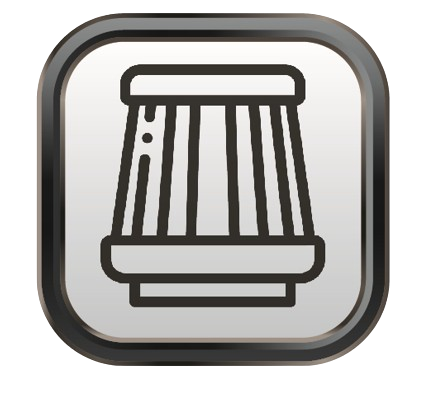
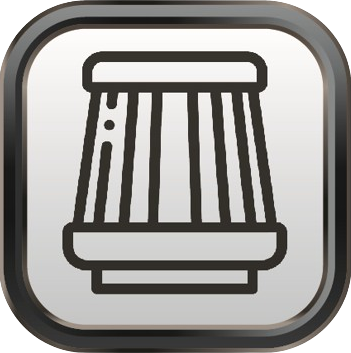
Add files via upload

diff --git a/index.html b/index.html
@@ -102,35 +102,35 @@
 								<p>Ανανεώστε το αυτοκίνητό σας με τα αξιόπιστα ανταλλακτικά μας, στηριζόμενοι στην εμπειρία μας για άψογη συντήρηση και αναβάθμιση.</p>
 							</header>
 							<ul class="features">
-								<li><div class = "w3-center"><img src="images\diskofrena.png" alt="" width="210" height="200"/>
+								<li><div class = "w3-center"><img src="images\diskofrena.png" alt="" width="200" height="200"/>
 									<h3>Δισκοφρενα</h3></div>
 									<p class="w3-center">Εξασφαλίστε ασφαλή επίδοση με τα δισκόφρενά μας - η επιλογή για αξιόπιστο φρενάρισμα και αντοχή σε κάθε κατάσταση.</p>
 								</li>
-								<li><div class = "w3-center"><img src="images\oil.png" alt="" width="210" height="200"/>
+								<li><div class = "w3-center"><img src="images\oil.png" alt="" width="200" height="200"/>
 									<h3>Λιπαντικα</h3></div>
 									<p class="w3-center">Δώστε ζωή στον κινητήρα σας με τα προηγμένα λιπαντικά μας, παρέχοντας προστασία και ομαλή λειτουργία σε κάθε διαδρομή.</p>
 								</li>
-								<li><div class = "w3-center"><img src="images\battery.png" alt="" width="210" height="200"/>
+								<li><div class = "w3-center"><img src="images\battery.png" alt="" width="200" height="200"/>
 									<h3>Μπαταριες</h3></div>
 									<p class="w3-center">Εξασφαλίστε αξιόπιστη εκκίνηση με τις ανθεκτικές μπαταρίες μας, ειδικά σχεδιασμένες για να ανταπεξέλθουν στις απαιτήσεις κάθε αυτοκινήτου.</p>
 								</li>
-								<li><div class = "w3-center"><img src="images\web4.png" alt="" width="210" height="200"/>
+								<li><div class = "w3-center"><img src="images\web4.png" alt="" width="200" height="200"/>
 									<h3>ψυγεια</h3></div>
 									<p class="w3-center">Διατηρήστε τη θερμοκρασία του κινητήρα σας με τα υψηλής ποιότητας ψυγεία μας, για αποτελεσματική ψύξη και ανθεκτικότητα.</p>
 								</li>
-								<li><div class = "w3-center"><img src="images\wheel.png" alt="" width="210" height="200"/>
+								<li><div class = "w3-center"><img src="images\wheel.png" alt="" width="200" height="200"/>
 									<h3>Συστηματα <br> διευθυνσης</h3></div>
 									<p class="w3-center">Σχεδιασμένα για άριστη ευστάθεια και ευκολία στον χειρισμό, προσφέρουν αξιόπιστη απόδοση σε κάθε κατεύθυνση.</p>
 								</li>
-								<li><div class = "w3-center"><img src="images\web1.png" alt="" width="210" height="200"/>
+								<li><div class = "w3-center"><img src="images\web1.png" alt="" width="200" height="200"/>
 									<h3>μπουζι</h3></div>
 									<p class="w3-center">Σχεδιασμένα αξιόπιστη ανάφλεξη και ομαλή λειτουργία του κινητήρα σας, εξασφαλίζουν απρόσκοπτη εκκίνηση και υψηλή απόδοση καυσίμου.</p>
 								</li>
-								<li><div class = "w3-center"><img src="images\web3.png" alt="" width="210" height="200"/>
+								<li><div class = "w3-center"><img src="images\web3.png" alt="" width="200" height="200"/>
 									<h3>ιμαντες</h3></div>
 									<p class="w3-center">Η ανθεκτική κατασκευή των ιμάντων μας εξασφαλίζει σωστό συγχρονισμό των εξαρτημάτων, προσφέροντας ασφαλή και ομαλή λειτουργία.</p>
 								</li>
-								<li><div class = "w3-center"><img src="images\airFilter.png" alt="" width="210" height="200"/>
+								<li><div class = "w3-center"><img src="images\airFilter.png" alt="" width="200" height="200"/>
 									<h3>Φιλτρα <br>Αερος</h3></div>
 									<p class="w3-center">Ανανεώστε τον κινητήρα σας με τα προηγμένα φίλτρα αέρος μας, εξασφαλίζοντας αποτελεσματική φιλτράρισμα και ανώτερη απόδοση.</p>
 								</li>
